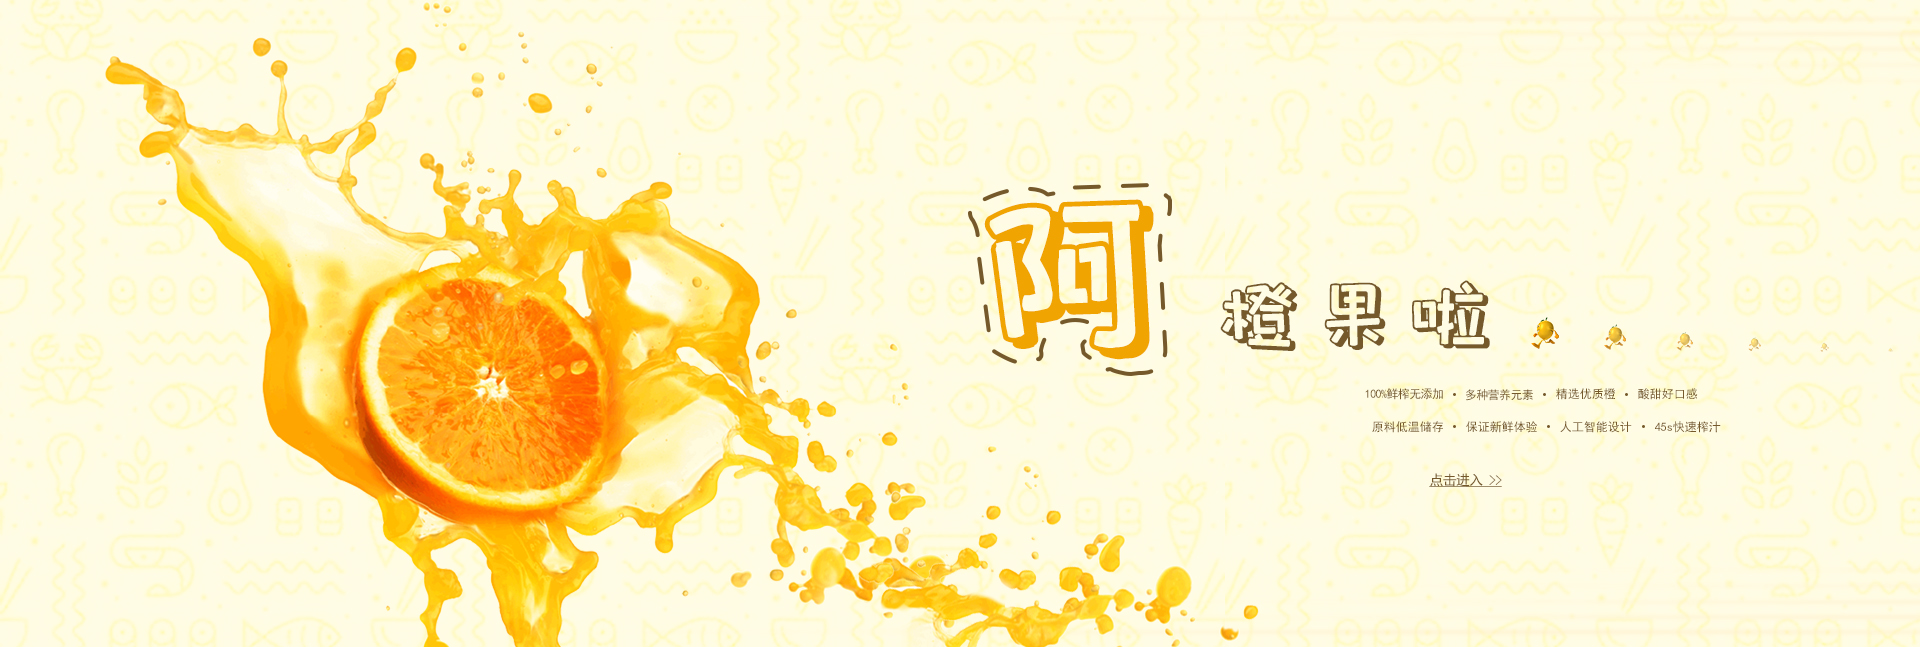
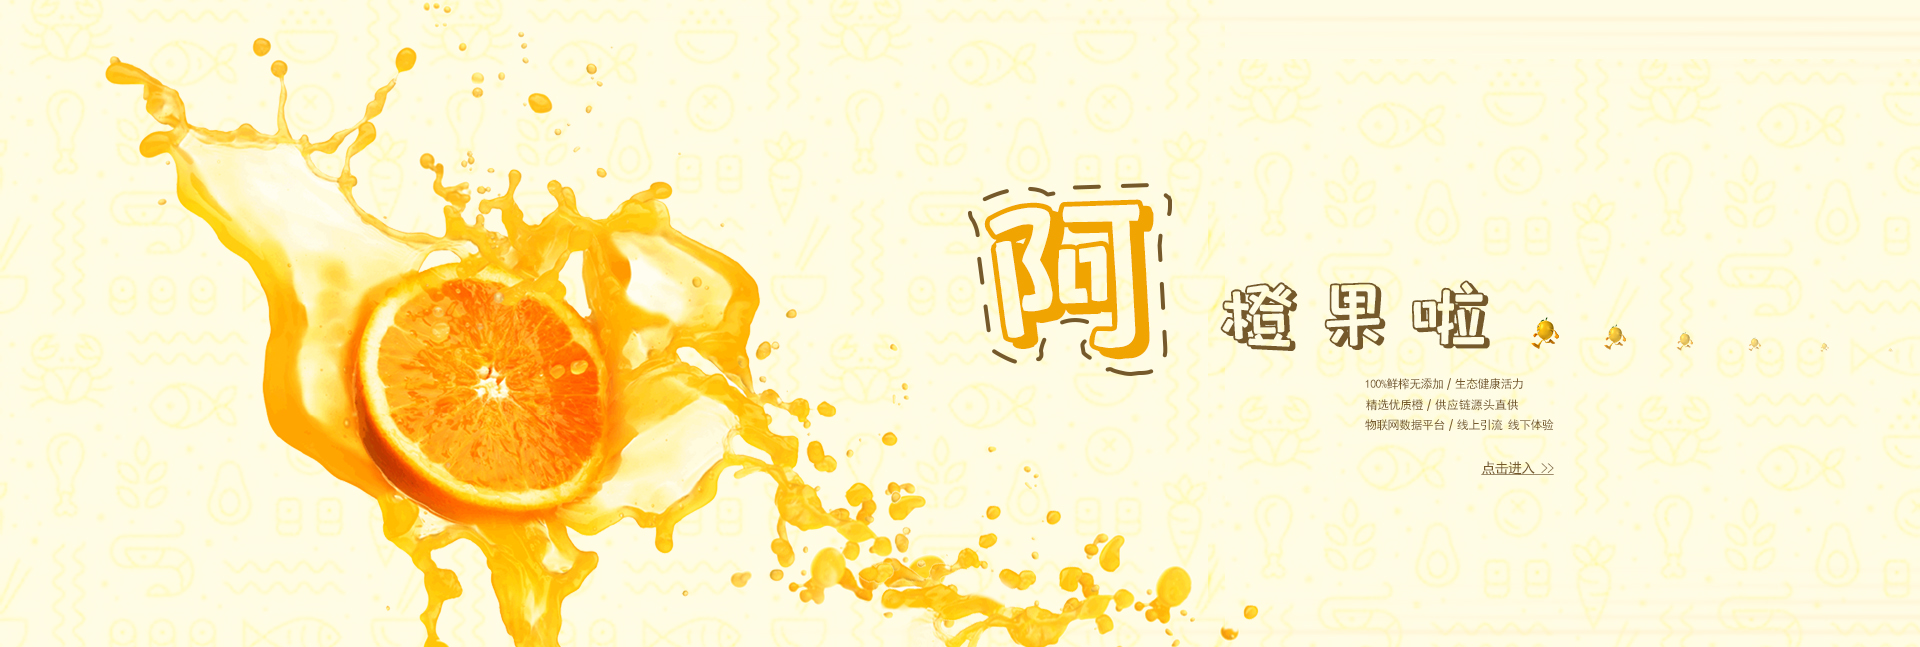
set title

diff --git a/src/web/active.html b/src/web/active.html
@@ -2,7 +2,7 @@
 <html lang="en">
 <head>
     <meta charset="UTF-8">
-    <title>我们的产品</title>
+    <title>成功案例</title>
     <link rel="stylesheet" href="../css/reset.css"/>
     <link rel="stylesheet" href="../css/web/iot.css"/>
 
@@ -43,32 +43,16 @@
             padding: 0 10px;
         }
         .product img{
-             width: 3.29rem;
-            height: 2.2rem;
-        }
-        .product{
-            display: flex;
-            flex-wrap: wrap;
-        }
-        .product>div{
-            width: 3.29rem;
-        }
-        .product p{
-            line-height: 0.6rem;
-            text-align: center;
-            font-size: 0.24rem;
-            color: #ff9900;
-            background:#ffe8d4 ;
+            margin-top: 30px;
+             width:100%;
         }
     </style>
 </head>
 <body>
 @@include("../../template/header_web.html", {"title": "header"})
-
-
 <div class="web_join">
     <div id="banner">
-        <img src="../img/active_banner_02.png" alt="">
+        <img src="../img/odds_banner.png" alt="">
     </div>
     <div id="content">
         <div class="content">
@@ -77,27 +61,11 @@
                 <span>Case activity</span>
             </nav>
             <div class="product">
-                <div>
-                    <img src="../img/active_h5_03.png" alt="">
-                    <p>音乐活动节</p>
-                </div>
-                <div>
-                    <img src="../img/active_h5_05.png" alt="">
-                    <p>音乐活动节</p>
-                </div>
-                <div>
-                    <img src="../img/active_h5_09.png" alt="">
-                    <p>音乐活动节</p>
-                </div>
-                <div>
-                    <img src="../img/active_h5_10.png" alt="">
-                    <p>音乐活动节</p>
-                </div>
-            </div>
 
+                <img src="../img/active_03.jpg" alt="">
+            </div>
         </div>
     </div>
 </div>
 @@include("../../template/footer_web.html", {"title": "footer"})
-
 </html>

diff --git a/template/header_h5.html b/template/header_h5.html
@@ -4,7 +4,7 @@
     <div class="header_list">
         <ul class="nav_list">
             <li>
-                <a href="../index.html">首页</a>
+                <a href="index.html">首页</a>
             </li>
             <li>
                 <a href="product.html">产品介绍</a>
@@ -15,9 +15,9 @@
             <li>
                 <a href="cooperation.html">商务合作</a>
             </li>
-           <!-- <li>
+            <li>
                 <a href="mall.html">在线商城</a>
-            </li>-->
+            </li>
             <li class="nav_item">
                 <nav>
                     <a class="nav_a" href="about.html">关于我们</a>
@@ -25,7 +25,7 @@
                 </nav>
                 <ul class="item_ul">
                     <li>
-                        <a href="odds.html">公司优势</a>
+                        <a href="#">公司优势</a>
                     </li>
                     <li>
                         <a href="join.html">我们的目标</a>

diff --git a/template/footer_h5.html b/template/footer_h5.html
@@ -26,6 +26,7 @@
     </div>
 </footer>
 </body>
+<script src="../js/zepto.min.js"></script>
 <script>
 
 
@@ -72,6 +73,27 @@
         }
         status = true;
     };
+
+    function isphone() {
+        var mobileArry = ["iPhone", "iPad", "Android", "Windows Phone", "BB10; Touch", "BB10; Touch", "PlayBook", "Nokia"];
+        var ua = navigator.userAgent;
+
+        var res=[];
+        $.each(mobileArry,function (i ,arr) {
+            if(ua.indexOf(arr) > 0){
+                res.push(arr)
+            }
+        })
+        var path=window.location.pathname;
+        /*return res.length > 0;*/
+        if (res.length ==0) {//如果是web
+
+            if (path.indexOf('web') == -1) {//页面路径不是web
+                window.location.pathname = '/index.html';
+            }
+        }
+    }
+    isphone()
 
 </script>
 <script>

diff --git a/src/h5/mall.html b/src/h5/mall.html
@@ -203,6 +203,7 @@
     });
 </script>
 </html>-->
+<!--
 
 <!DOCTYPE html>
 <html>
@@ -251,4 +252,28 @@
 
 </script>
 </body>
+</html>-->
+<!DOCTYPE html>
+<html lang="en">
+<head>
+    <meta charset="UTF-8">
+    <meta name="viewport" content="width=device-width,initial-scale=1.0,maximum-scale=1.0,mini-scale-1.0,user-scalable=no">
+    <link rel="stylesheet" href="../css/reset.css">
+    <link rel="stylesheet" href="../css/icom.css">
+    <link rel="stylesheet" href="../css/h5/iot.css">
+    <style>
+        #content img{
+            width: 100%;
+        }
+    </style>
+    <title>在线商城</title>
+</head>
+<body>
+
+@@include("../../template/header_h5.html",{"title":"header"})
+<div id="content">
+    <img src="../img/h5_mall.jpg" alt="">
+</div>
+
+@@include("../../template/footer_h5.html", {"title": "footer"})
 </html>

diff --git a/src/h5/about.html b/src/h5/about.html
@@ -37,19 +37,19 @@
         </div>
         <div id="item">
             <div class="item">
-                <a href="odds.html">
+                <a href="#">
                     <img src="../img/company_07.png" alt="">
                     <p>公司优势</p>
                 </a>
             </div>
             <div class="item">
-                <a href="odds">
+                <a href="join.html">
                     <img src="../img/company_18.png" alt="">
                     <p>我们的目标</p>
                 </a>
             </div>
             <div class="item">
-                <a href="join">
+                <a href="active.html">
                     <img src="../img/company_15.png" alt="">
                     <p>成功案例</p>
                 </a>

diff --git a/template/footer_web.html b/template/footer_web.html
@@ -97,6 +97,27 @@
         })
 
     }
+
+    function isphone() {
+        var mobileArry = ["iPhone", "iPad", "Android", "Windows Phone", "BB10; Touch", "BB10; Touch", "PlayBook", "Nokia"];
+        var ua = navigator.userAgent;
+
+        var res=[];
+        $.each(mobileArry,function (i ,arr) {
+            if(ua.indexOf(arr) > 0){
+                res.push(arr)
+            }
+        })
+        var path=window.location.pathname;
+
+        /*return res.length > 0;*/
+        if (res.length > 0) {
+            if (path.indexOf('h5') == -1) {
+                window.location.pathname = '/h5/index.html'
+            }
+        }
+    }
+    isphone()
 </script>
 
 <script>

diff --git a/src/h5/server.html b/src/h5/server.html
@@ -7,17 +7,15 @@
     <link rel="stylesheet" href="../css/icom.css">
     <link rel="stylesheet" href="../css/h5/iot.css">
     <link rel="stylesheet" href="../css/h5/server.css">
-    <title>Title</title>
+    <title>服务支持</title>
 </head>
 <body>
 @@include("../../template/header_h5.html", {"title":"header"})
 
 <div class="h5_server">
-
-
     <div id="content">
         <div id="banner">
-            <img src="../img/web_03.jpg" alt="*">
+            <img src="../img/h_banner4.png" alt="*">
         </div>
 
         <div class="item">

diff --git a/src/web/about.html b/src/web/about.html
@@ -43,14 +43,14 @@
 
             </div>
             <div class="item">
-                <a href="odds.html">
+                <a href="join.html">
                     <img src="../img/company_18.png" alt="">
                     <p>我们的目标</p>
                 </a>
 
             </div>
             <div class="item" >
-                <a href="join.html">
+                <a href="active.html">
                     <img src="../img/company_15.png" alt="">
                     <p>活动 · 案例</p>
                 </a>

diff --git a/src/web/index.html b/src/web/index.html
@@ -3,7 +3,7 @@
 <head>
     <meta charset="UTF-8">
     <meta name="viewport" content="width=device-width,initial-scale=1.0,maximum-scale=1.0,mini-scale-1.0,user-scalable=no">
-    <title>首页</title>
+    <title>阿橙果啦</title>
     <link rel="stylesheet" href="../css/reset.css"/>
     <link rel="stylesheet" href="../css/icom.css"/>
     <link rel="stylesheet" href="../css/web/index.css"/>
@@ -242,6 +242,7 @@
                 show_line(num)
             }
         }
+
 
 
 </script>

diff --git a/src/h5/join.html b/src/h5/join.html
@@ -3,7 +3,7 @@
 <head>
     <meta charset="UTF-8">
     <meta name="viewport" content="width=device-width,initial-scale=1.0,maximum-scale=1.0,mini-scale-1.0,user-scalable=no">
-    <title>南京鑫倍泽物联网</title>
+    <title>我们的目标</title>
     <link rel="stylesheet" href="../css/icom.css">
     <link rel="stylesheet" href="../css/reset.css">
     <link rel="stylesheet" href="../css/h5/iot.css">

diff --git a/src/h5/index.html b/src/h5/index.html
@@ -3,7 +3,7 @@
 <head>
     <meta charset="UTF-8">
     <meta name="viewport" content="width=device-width,initial-scale=1.0,maximum-scale=1.0,mini-scale-1.0,user-scalable=no">
-    <title>南京鑫倍泽物联网</title>
+    <title>阿橙果啦</title>
     <link rel="stylesheet" href="../css/icom.css">
     <link rel="stylesheet" href="../css/reset.css">
     <link rel="stylesheet" href="../css/h5/iot.css">

diff --git a/src/web/table.html b/src/web/table.html
@@ -2,14 +2,12 @@
 <html lang="en">
 <head>
     <meta charset="UTF-8">
-    <title>联系我们</title>
+    <title>立即申请</title>
     <link rel="stylesheet" href="../css/reset.css">
     <link rel="stylesheet" href="../css/web/iot.css">
     <link rel="stylesheet" href="../css/web/table.css">
 </head>
 <body>
-
-
 @@include("../../template/header_web.html", {"title": "header"})
 
 <div class="table">
